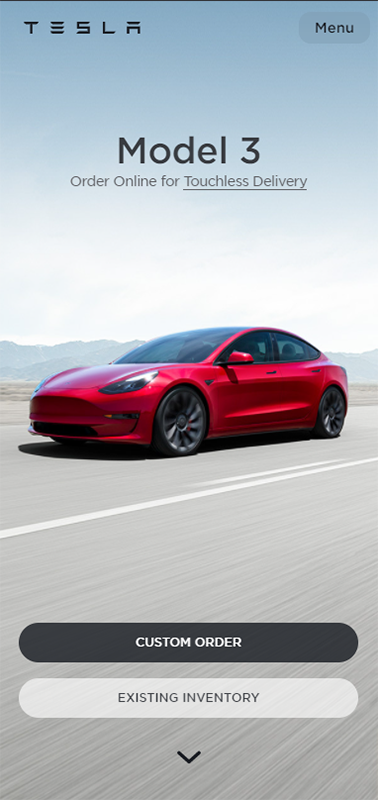
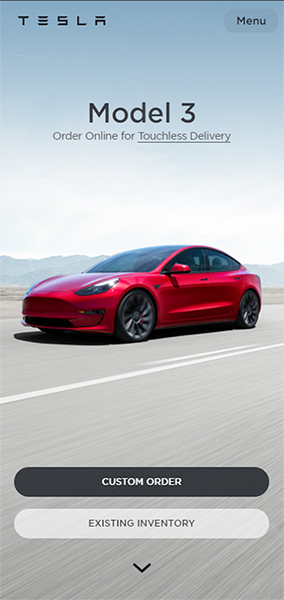
update optimization to a little smaller

diff --git a/css/large.css b/css/large.css
@@ -8,6 +8,12 @@
         margin: 2em 10em;
     }
 
+    main, header, footer{
+        max-width: 800px;
+        margin-left: auto;
+        margin-right: auto;
+    }
+
     #principle1, #principle2, #principle3{
         grid-row: 1/end;
     }
